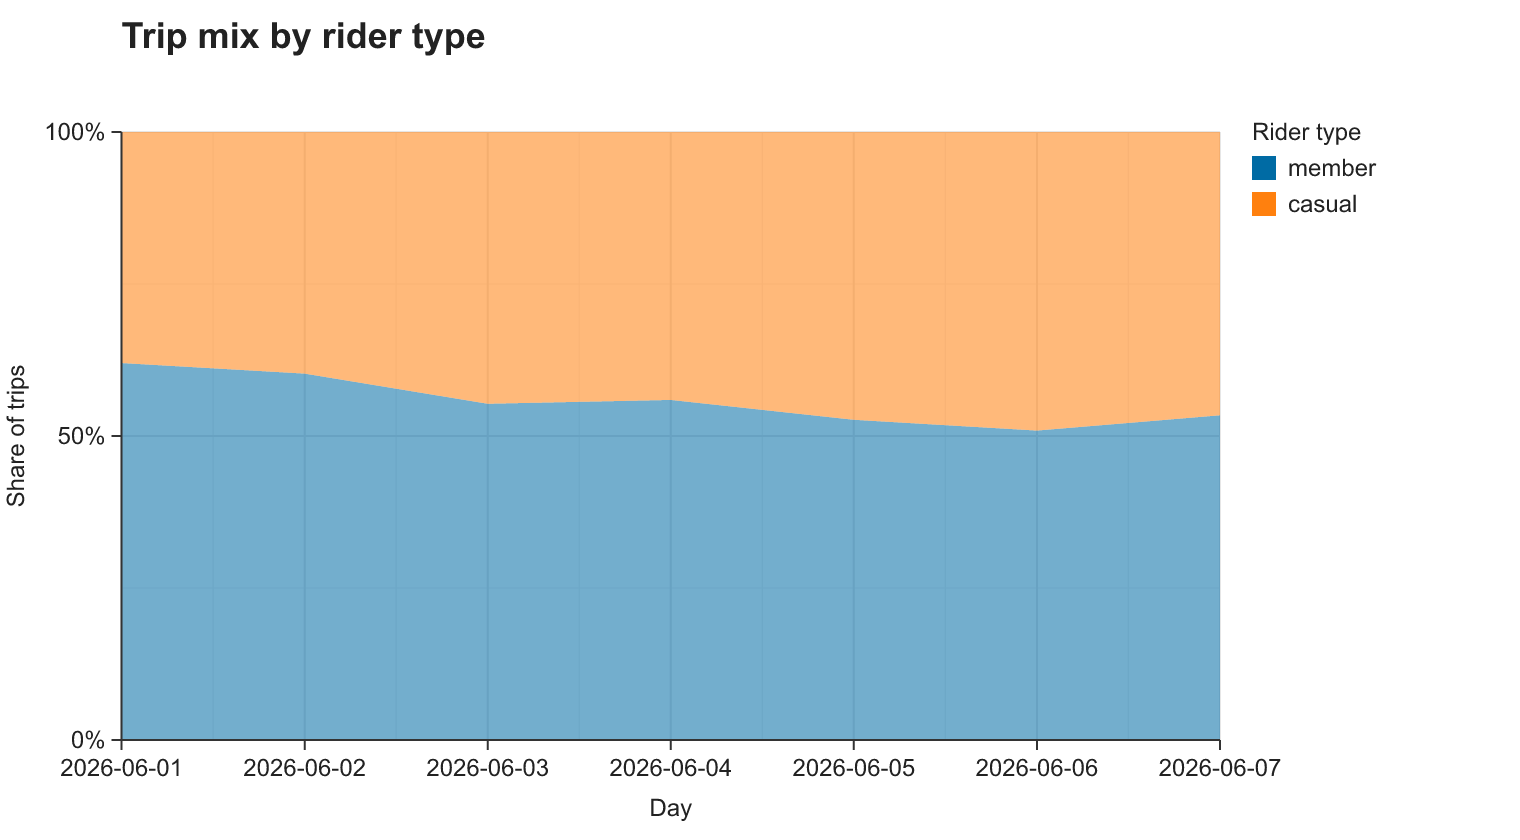
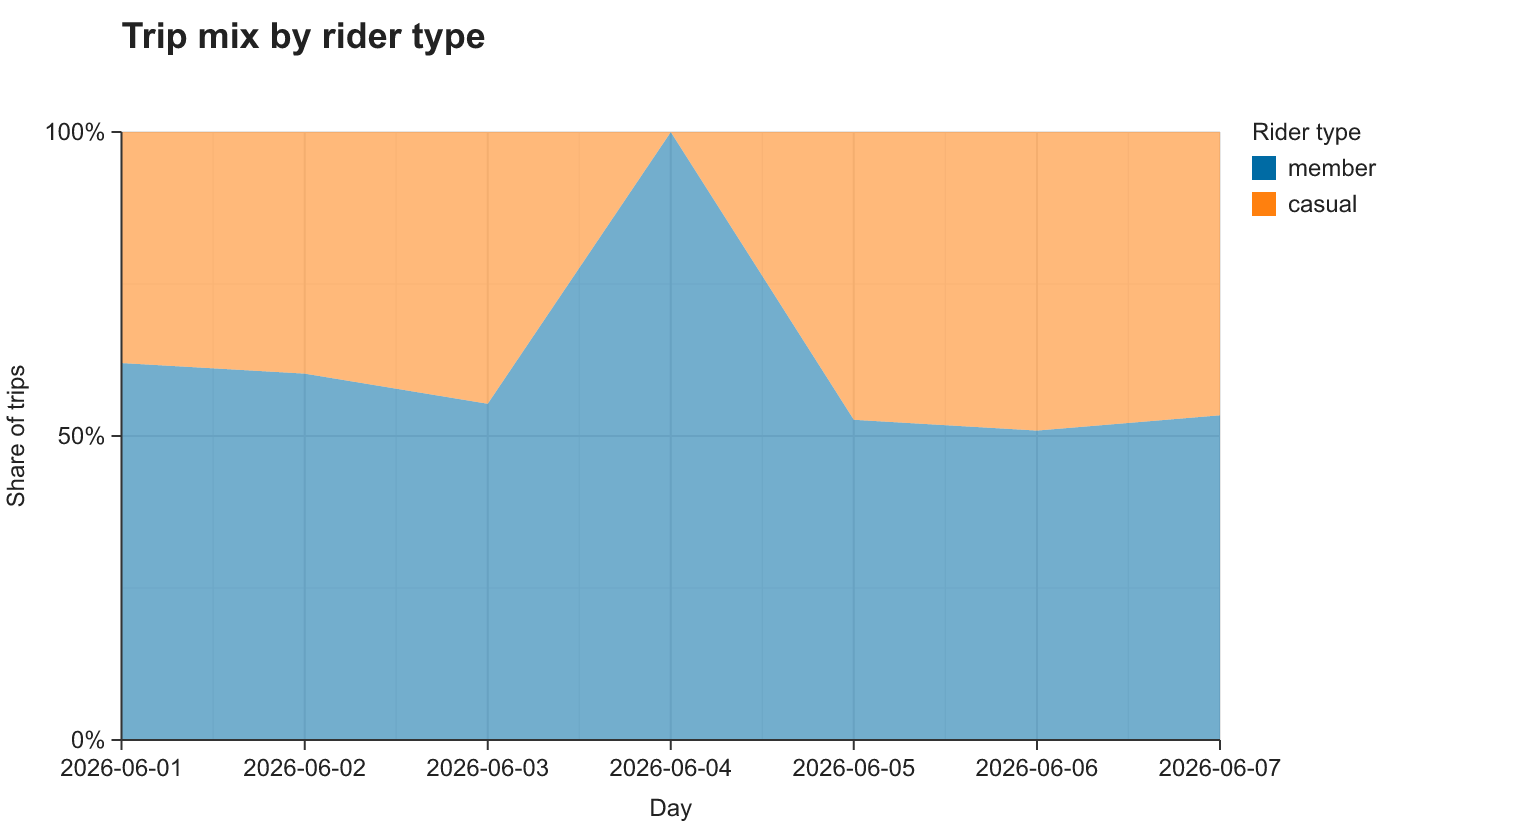
v0.62.0 features

Changed region(s): [[0.3092, 0.1548, 0.5566, 0.4952]]

diff --git a/crates/algraf-render/src/geom/line.rs b/crates/algraf-render/src/geom/line.rs
@@ -477,6 +477,10 @@ pub(super) fn render_area(
         let Some(value_col) = space.y_axis().and_then(|axis| axis.data_column()) else {
             return;
         };
+        let x_positions = area_x_positions(space, table, &row_list, value_col);
+        if x_positions.len() < 2 {
+            return;
+        }
         let totals = if layout == AreaLayout::Fill {
             area_totals_by_x(space, table, &row_list, value_col)
         } else {
@@ -485,36 +489,38 @@ pub(super) fn render_area(
         let mut positive: HashMap<String, f64> = HashMap::new();
         let mut negative: HashMap<String, f64> = HashMap::new();
         for group_rows in groups {
-            let mut points: Vec<(f64, f64, f64, usize)> = Vec::new();
-            for &row in &group_rows {
-                let Some(x) = space.resolve_x(table, row) else {
-                    continue;
-                };
-                let Some(mut value) = cell_f64(table, value_col, row) else {
-                    continue;
-                };
-                let key = area_x_key(x);
+            let Some(group_row) = group_rows.first().copied() else {
+                continue;
+            };
+            let group_values = area_group_values_by_x(space, table, &group_rows, value_col);
+            if group_values.is_empty() {
+                continue;
+            }
+            let mut points: Vec<(f64, f64, f64, usize)> = Vec::with_capacity(x_positions.len());
+            for (key, x) in &x_positions {
+                let mut value = group_values.get(key).copied().unwrap_or(0.0);
                 if layout == AreaLayout::Fill {
                     let total = if value >= 0.0 {
                         totals
-                            .get(&key)
+                            .get(key)
                             .map(|(positive, _)| *positive)
                             .unwrap_or(0.0)
                     } else {
                         totals
-                            .get(&key)
+                            .get(key)
                             .map(|(_, negative)| negative.abs())
                             .unwrap_or(0.0)
                     };
                     if total <= f64::EPSILON {
-                        continue;
+                        value = 0.0;
+                    } else {
+                        value /= total;
                     }
-                    value /= total;
                 }
                 let accumulator = if value >= 0.0 {
-                    positive.entry(key).or_insert(0.0)
+                    positive.entry(key.clone()).or_insert(0.0)
                 } else {
-                    negative.entry(key).or_insert(0.0)
+                    negative.entry(key.clone()).or_insert(0.0)
                 };
                 let lower_value = baseline_value + *accumulator;
                 *accumulator += value;
@@ -524,7 +530,7 @@ pub(super) fn render_area(
                 else {
                     continue;
                 };
-                points.push((x, lower, upper, row));
+                points.push((*x, lower, upper, group_row));
             }
             emit_area_polygon(sink, table, &points, &fill, &stroke, stroke_width, alpha);
         }
@@ -656,6 +662,45 @@ fn area_totals_by_x(
         }
     }
     totals
+}
+
+fn area_group_values_by_x(
+    space: &crate::space::ScaledSpace,
+    table: &dyn algraf_data::Table,
+    rows: &[usize],
+    value_col: &str,
+) -> HashMap<String, f64> {
+    let mut values = HashMap::new();
+    for &row in rows {
+        let Some(x) = space.resolve_x(table, row) else {
+            continue;
+        };
+        let Some(value) = cell_f64(table, value_col, row) else {
+            continue;
+        };
+        *values.entry(area_x_key(x)).or_insert(0.0) += value;
+    }
+    values
+}
+
+fn area_x_positions(
+    space: &crate::space::ScaledSpace,
+    table: &dyn algraf_data::Table,
+    rows: &[usize],
+    value_col: &str,
+) -> Vec<(String, f64)> {
+    let mut positions = Vec::new();
+    for &row in rows {
+        let Some(x) = space.resolve_x(table, row) else {
+            continue;
+        };
+        if cell_f64(table, value_col, row).is_some() {
+            positions.push((area_x_key(x), x));
+        }
+    }
+    positions.sort_by(|a, b| a.1.total_cmp(&b.1).then_with(|| a.0.cmp(&b.0)));
+    positions.dedup_by(|a, b| a.0 == b.0);
+    positions
 }
 
 fn area_x_key(x: f64) -> String {

diff --git a/crates/algraf-render/tests/render.rs b/crates/algraf-render/tests/render.rs
@@ -701,10 +701,28 @@ fn text_element<'a>(svg: &'a str, label: &str) -> &'a str {
 }
 
 fn layer_path_count(svg: &str, class: &str) -> usize {
+    layer_paths(svg, class).len()
+}
+
+fn layer_paths<'a>(svg: &'a str, class: &str) -> Vec<&'a str> {
     let start = svg.find(class).expect("layer class");
     let layer = &svg[start..];
     let end = layer.find("</g>").expect("layer end");
-    layer[..end].matches("<path").count()
+    let layer = &layer[..end];
+    layer
+        .match_indices("<path")
+        .map(|(index, _)| {
+            let path = &layer[index..];
+            let end = path.find('>').expect("path end") + 1;
+            &path[..end]
+        })
+        .collect()
+}
+
+fn path_d(path: &str) -> &str {
+    let start = path.find("d=\"").expect("path d") + 3;
+    let end = path[start..].find('"').expect("path d end");
+    &path[start..start + end]
 }
 
 #[test]
@@ -844,6 +862,26 @@ fn area_stack_and_fill_train_domains_and_emit_group_paths() {
         serde_json::from_str(&fill.metadata.to_json()).expect("metadata json");
     let fill_max = fill_metadata["axes"]["y"]["domain"][1].as_f64().unwrap();
     assert!((1.0..=1.1).contains(&fill_max), "{fill_metadata}");
+}
+
+#[test]
+fn area_stack_and_fill_keep_sparse_groups_contiguous() {
+    let csv = "x,y,series\n1,2,A\n1,1,B\n2,2,A\n3,2,A\n3,1,B\n";
+
+    for layout in ["stack", "fill"] {
+        let result = render_result(
+            &format!(
+                "Chart(data: \"p.csv\") {{ Space(x * y) {{ Area(fill: series, layout: \"{layout}\") }} }}"
+            ),
+            csv,
+        );
+        assert!(result.diagnostics.is_empty(), "{:?}", result.diagnostics);
+        let l_counts = layer_paths(&result.svg, "algraf-geom-area")
+            .iter()
+            .map(|path| path_d(path).matches('L').count())
+            .collect::<Vec<_>>();
+        assert_eq!(l_counts, vec![5, 5], "{layout}: {}", result.svg);
+    }
 }
 
 #[test]

diff --git a/docs/V0_62_PLAN.md b/docs/V0_62_PLAN.md
@@ -1,0 +1,70 @@
+# Algraf v0.62.0 Plan
+
+Status: Implemented
+Target version: 0.62.0
+Owner: Algraf maintainers
+Related spec: [`ALGRAF_SPEC.md`](ALGRAF_SPEC.md)
+Predecessor plan: [`V0_61_PLAN.md`](V0_61_PLAN.md)
+Roadmap theme: Renderer correctness for sparse story-chart tables.
+
+## Purpose
+
+v0.62.0 fixes stacked and fill-normalized `Area` rendering for sparse grouped
+tables. Prepared story tables often omit zero-valued group/date cells; Algraf
+should render those omitted cells as zero contributions rather than cutting
+short a group's area path and leaving visible holes between stacked bands.
+
+## Scope
+
+### Sparse Stacked Area Continuity
+
+Status: Implemented.
+
+Grouped `Area(layout: "stack")` and `Area(layout: "fill")` render over the
+union of valid physical x-positions observed by any group. Missing group/x cells
+contribute zero height. Duplicate rows for the same group/x cell are aggregated
+before stacking.
+
+Acceptance criteria:
+
+- Sparse grouped area tables render one contiguous polygon per non-empty group.
+- `layout: "fill"` preserves share normalization while treating omitted cells as
+  zero contributions.
+- Regression tests cover sparse grouped stack and fill layouts.
+- The stacked-area gallery example uses a sparse source table and renders
+  without holes.
+
+### Release Version Alignment
+
+Status: Implemented.
+
+Workspace, extension, demo, lockfile, and specification version stamps are
+aligned to `0.62.0` for this maintenance release.
+
+Acceptance criteria:
+
+- `Cargo.toml` and `Cargo.lock` record workspace crates at `0.62.0`.
+- `docs/ALGRAF_SPEC.md` records `0.62.0` as the working-copy specification and
+  lists this plan in the release-planning milestone table.
+- `editors/vscode/package.json`, `editors/vscode/package-lock.json`,
+  `demo/package.json`, and `demo/package-lock.json` record `0.62.0`.
+
+## Non-Goals
+
+- No `.ag` syntax changes.
+- No new geometry, scale, guide, data source, CLI flag, or LSP surface.
+- No changes to historical completed release plans.
+
+## Validation
+
+Required checks:
+
+```bash
+cargo fmt --all --check
+cargo clippy --workspace --all-targets
+cargo test --workspace
+```
+
+Additional validation:
+
+- Regenerate and inspect the affected stacked/fill area examples.

diff --git a/docs/ALGRAF_SPEC.md b/docs/ALGRAF_SPEC.md
@@ -1,6 +1,6 @@
 # Algraf Detailed Specification
 
-Status: 0.61.0
+Status: 0.62.0
 Audience: implementers, language designers, runtime engineers, LSP authors, and test authors
 Scope: block-scoped algebraic grammar-of-graphics DSL, single Rust binary, resilient parser, language server, CSV-backed runtime, and SVG renderer
 
@@ -32,7 +32,7 @@ It is written to support implementation without relying on the original chat con
 
 Released version 0.1 behavior is preserved by repository tags.
 
-This working copy is the 0.61.0 specification.
+This working copy is the 0.62.0 specification.
 
 The staged release plans and optional-item audits live under `docs/` as
 `V0_*_PLAN.md` files. The earliest unreleased plan is the active implementation
@@ -5221,6 +5221,11 @@ by categorical `fill` or categorical `stroke`, and renders one polygon per
 group over cumulative y ranges. Positive and negative values stack separately
 around the baseline. Scale-domain training MUST include stacked lower and upper
 bounds.
+
+Grouped stack and fill Area layouts MUST evaluate every non-empty group at every
+valid physical x-position observed by any group. If a group has no row at an
+observed x-position, that group/x cell contributes zero height; duplicate rows
+for one group/x cell are aggregated before stacking.
 
 `Area(layout: "fill")` uses the same grouping and positive/negative separation
 as `"stack"`, but normalizes each physical x-position stack to share of total.
@@ -10689,6 +10694,7 @@ specification says `MUST`/`SHOULD` and the implementation provides it.
 | 0.59.0 | [`V0_59_PLAN.md`](V0_59_PLAN.md) | CI artifacts for distributable editor and browser outputs | Implemented |
 | 0.60.0 | [`V0_60_PLAN.md`](V0_60_PLAN.md) | GitHub Release assets for distributable editor and browser outputs | Implemented |
 | 0.61.0 | [`V0_61_PLAN.md`](V0_61_PLAN.md) | Story-chart expression: stacked/fill Area, categorical axis order, numeric Text format, and terminal Label geometry | Implemented |
+| 0.62.0 | [`V0_62_PLAN.md`](V0_62_PLAN.md) | Sparse stacked/fill Area continuity for story-chart tables | Implemented |
 
 The earliest unreleased plan is the active implementation target; later
 unreleased plans are sequencing guidance and may be revised as earlier refactors

diff --git a/examples/README.md b/examples/README.md
@@ -1534,7 +1534,9 @@ Chart(data: "timeseries.csv", width: 760, height: 420) {
 
 `Area(layout: "stack")` groups rows by `group` when present, otherwise by a
 categorical `fill` or `stroke` mapping. The y domain is trained from the
-stacked totals, so each polygon stays inside the plot area.
+stacked totals, so each polygon stays inside the plot area. If a group is absent
+at one x-position, it contributes zero there and the stacked bands remain
+contiguous.
 
 ```algraf
 Chart(data: "area_layouts.csv", width: 760, height: 420, title: "Trips by rider type") {